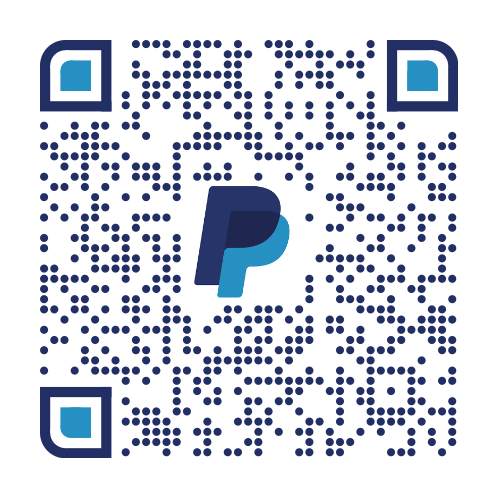
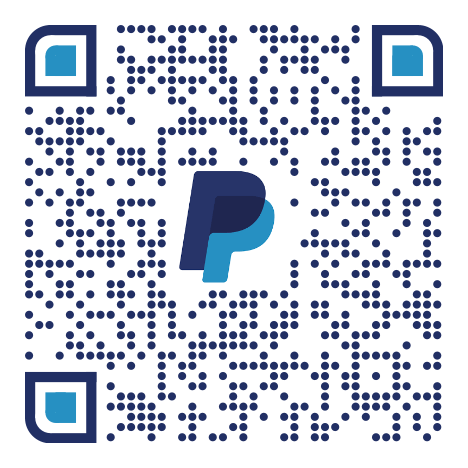
Support page: center QR codes on their buttons, drop the captions
- Each QR code is vertically centered against its button or address.
  On phones, where it wraps underneath, it's centered horizontally.
- Removed "Scan with your phone" under the support page's QR codes and
  "Point your phone's camera at the code" in the widget's QR pop-up.
- Trimmed the extra white border from PayPal's QR image so it matches
  the others' size. It still scans to the same link.

Claude-Session: https://claude.ai/code/session_01Jx3p8rmjNsihRuyzWqckCn

diff --git a/src/site/styles.css b/src/site/styles.css
@@ -199,11 +199,13 @@ main { padding-bottom: 2.5rem; }
   display: block; padding: .5rem .7rem; border-radius: 3px; background: var(--soft);
   font: .8rem/1.4 "SFMono-Regular", Consolas, "Liberation Mono", Menlo, monospace; word-break: break-all;
 }
-.with-qr { display: flex; flex-wrap: wrap; align-items: flex-start; gap: .75rem 1.25rem; }
+.with-qr { display: flex; flex-wrap: wrap; align-items: center; gap: .75rem 1.25rem; }
 .with-qr .m-main { flex: 1 1 260px; max-width: 460px; }
+@media (max-width: 520px) {
+  .with-qr .qr { margin-inline: auto; } /* when it wraps under its button, center it */
+}
 .qr { margin: 0; }
 .qr svg, .qr img { display: block; width: 165px; height: 165px; padding: 6px; border-radius: 4px; background: #fff; }
-.qr figcaption { color: var(--muted); font-size: .8rem; }
 .ph {
   margin-left: 4px; padding: 1px 7px; border-radius: 999px;
   background: var(--badge-bg); color: var(--badge-fg); font-size: .72rem; font-weight: 700;

diff --git a/src/widget/widget.js b/src/widget/widget.js
@@ -164,8 +164,7 @@ const QR_ICON = '<svg viewBox="0 0 24 24" aria-hidden="true"><path fill="current
       '<div class="qr-backdrop" hidden>' +
       '<div class="qr-dialog" role="dialog" aria-modal="true" aria-labelledby="sh-qr-title" tabindex="-1">' +
       '<button type="button" class="x qr-close" aria-label="Close the QR code">&times;</button>' +
-      '<h3 id="sh-qr-title"></h3><img class="qr-big" width="300" height="300" alt="">' +
-      '<p class="qr-hint">Point your phone\'s camera at the code.</p></div></div>';
+      '<h3 id="sh-qr-title"></h3><img class="qr-big" width="300" height="300" alt=""></div></div>';
     layer.appendChild(wrap);
 
     const $ = (sel) => layer.querySelector(sel);

diff --git a/src/widget/widget.css b/src/widget/widget.css
@@ -140,7 +140,6 @@ h2 { margin: 0 36px 0 0; font-size: 19px; line-height: 1.3; }
   display: block; width: 300px; height: 300px; max-width: 100%; height: auto; aspect-ratio: 1; margin: 0 auto;
   padding: 8px; border-radius: 6px; background: #fff;
 }
-.qr-hint { margin: 10px 0 0; color: var(--sh-muted); font-size: 13px; }
 .ph {
   margin-left: 4px; padding: 1px 6px; border-radius: 999px;
   background: #fde68a; color: #6b4300; font-size: 11px; font-weight: 600;
